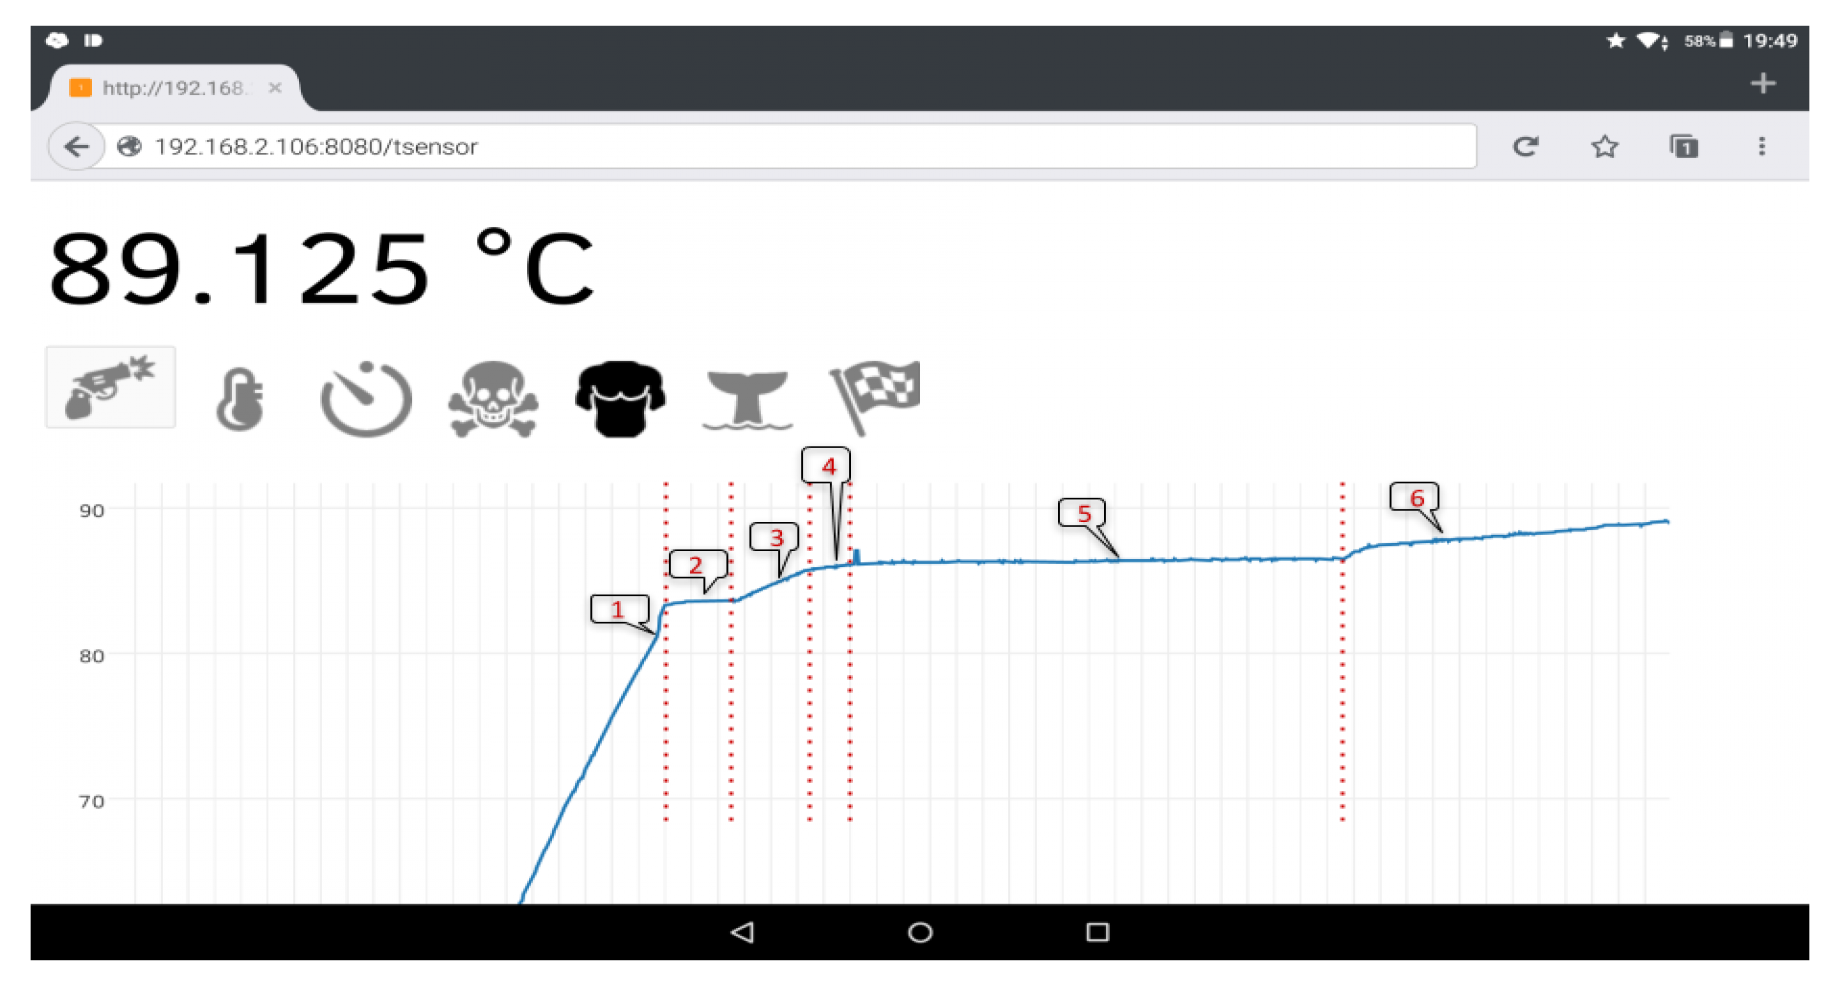
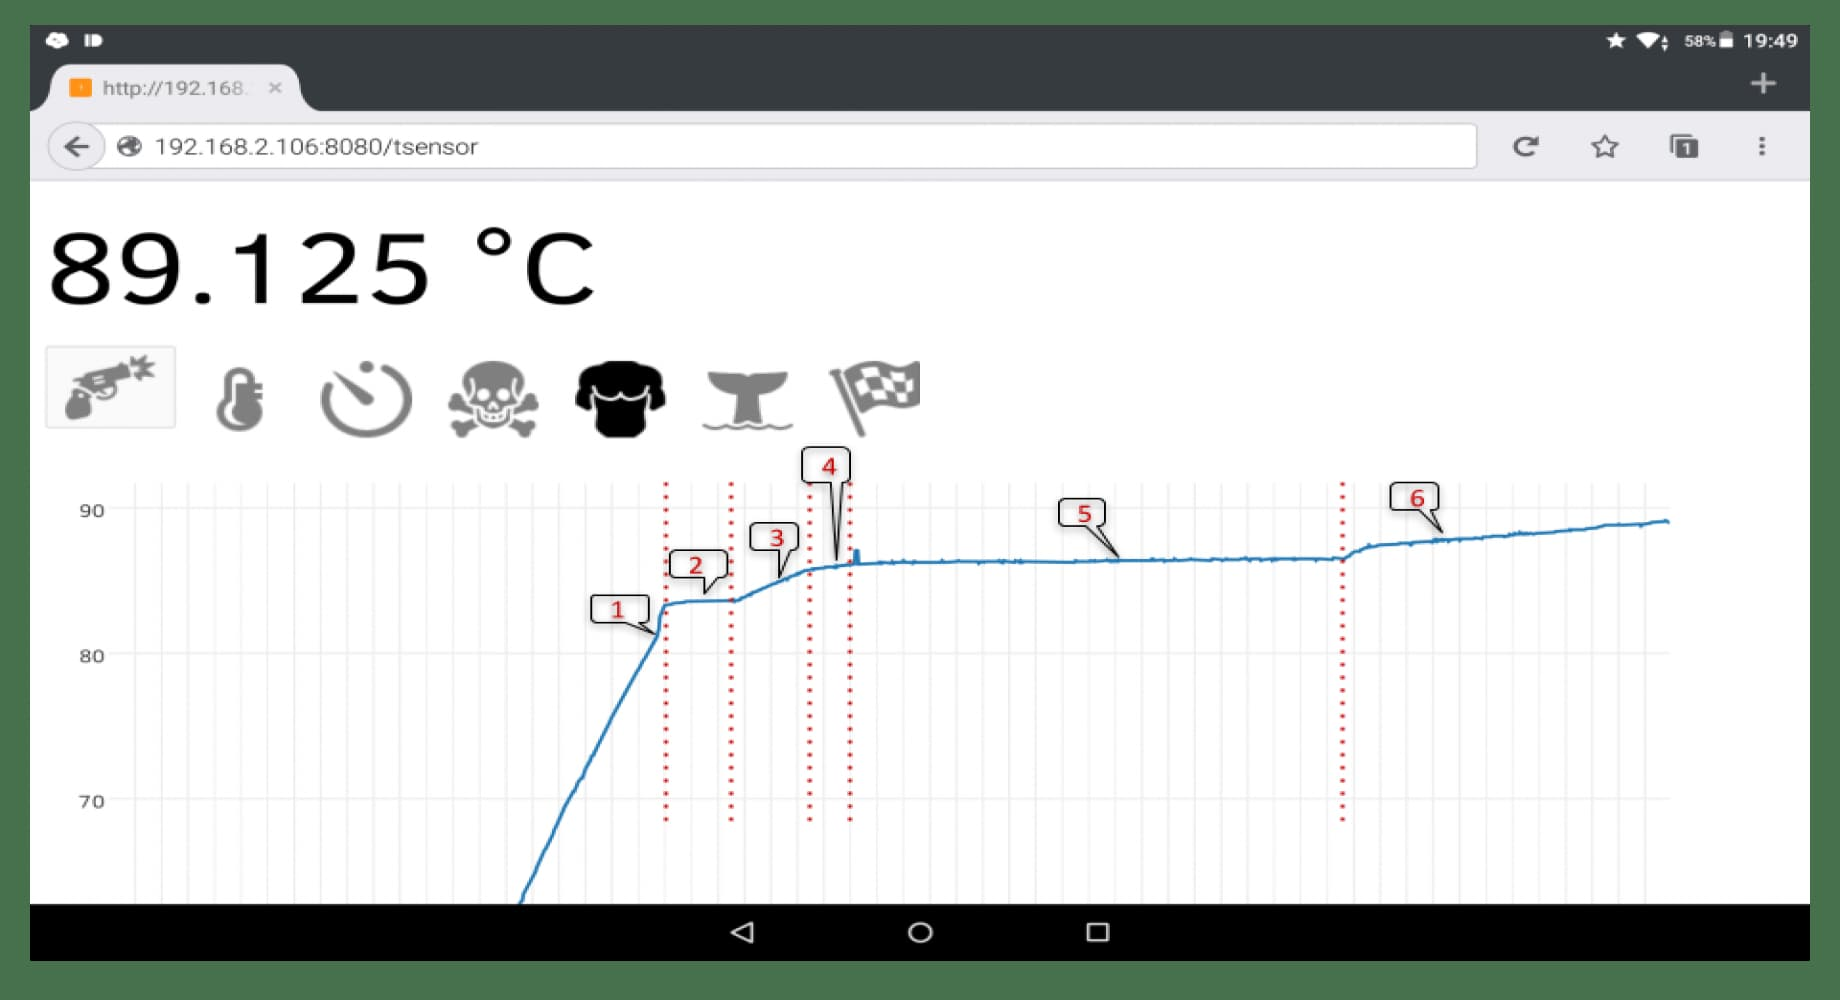
squooshed images

Changed region(s): [[0.0, 0.0, 1.0, 1.0]]

diff --git a/docs/rules/index.md b/docs/rules/index.md
@@ -5,7 +5,7 @@ description: Алгоритм работы робота Дистибот, отс
 keywords: автоматика,дистилляция,брага,самогон,дробная перегонка,автоматизация
 ---
 Алгоритм действия дистибота станет понятен из разбора графика изменения температуры в кубе во времени.  
-![distibot_web_server]({{ site.baseurl }}/gallery/distibot-rules.png "Скриншот страницы веб-сервера дистибота")
+![distibot_web_server]({{ site.baseurl }}/gallery/distibot-rules.jpg "Скриншот страницы веб-сервера дистибота")
 Скриншот страницы веб-сервера дистибота. Процесс дробной перегонки браги.
 
 Крупным шрифтом (__89.125 °C__) выводится текущие показания датчика температуры паров в кубе.  
